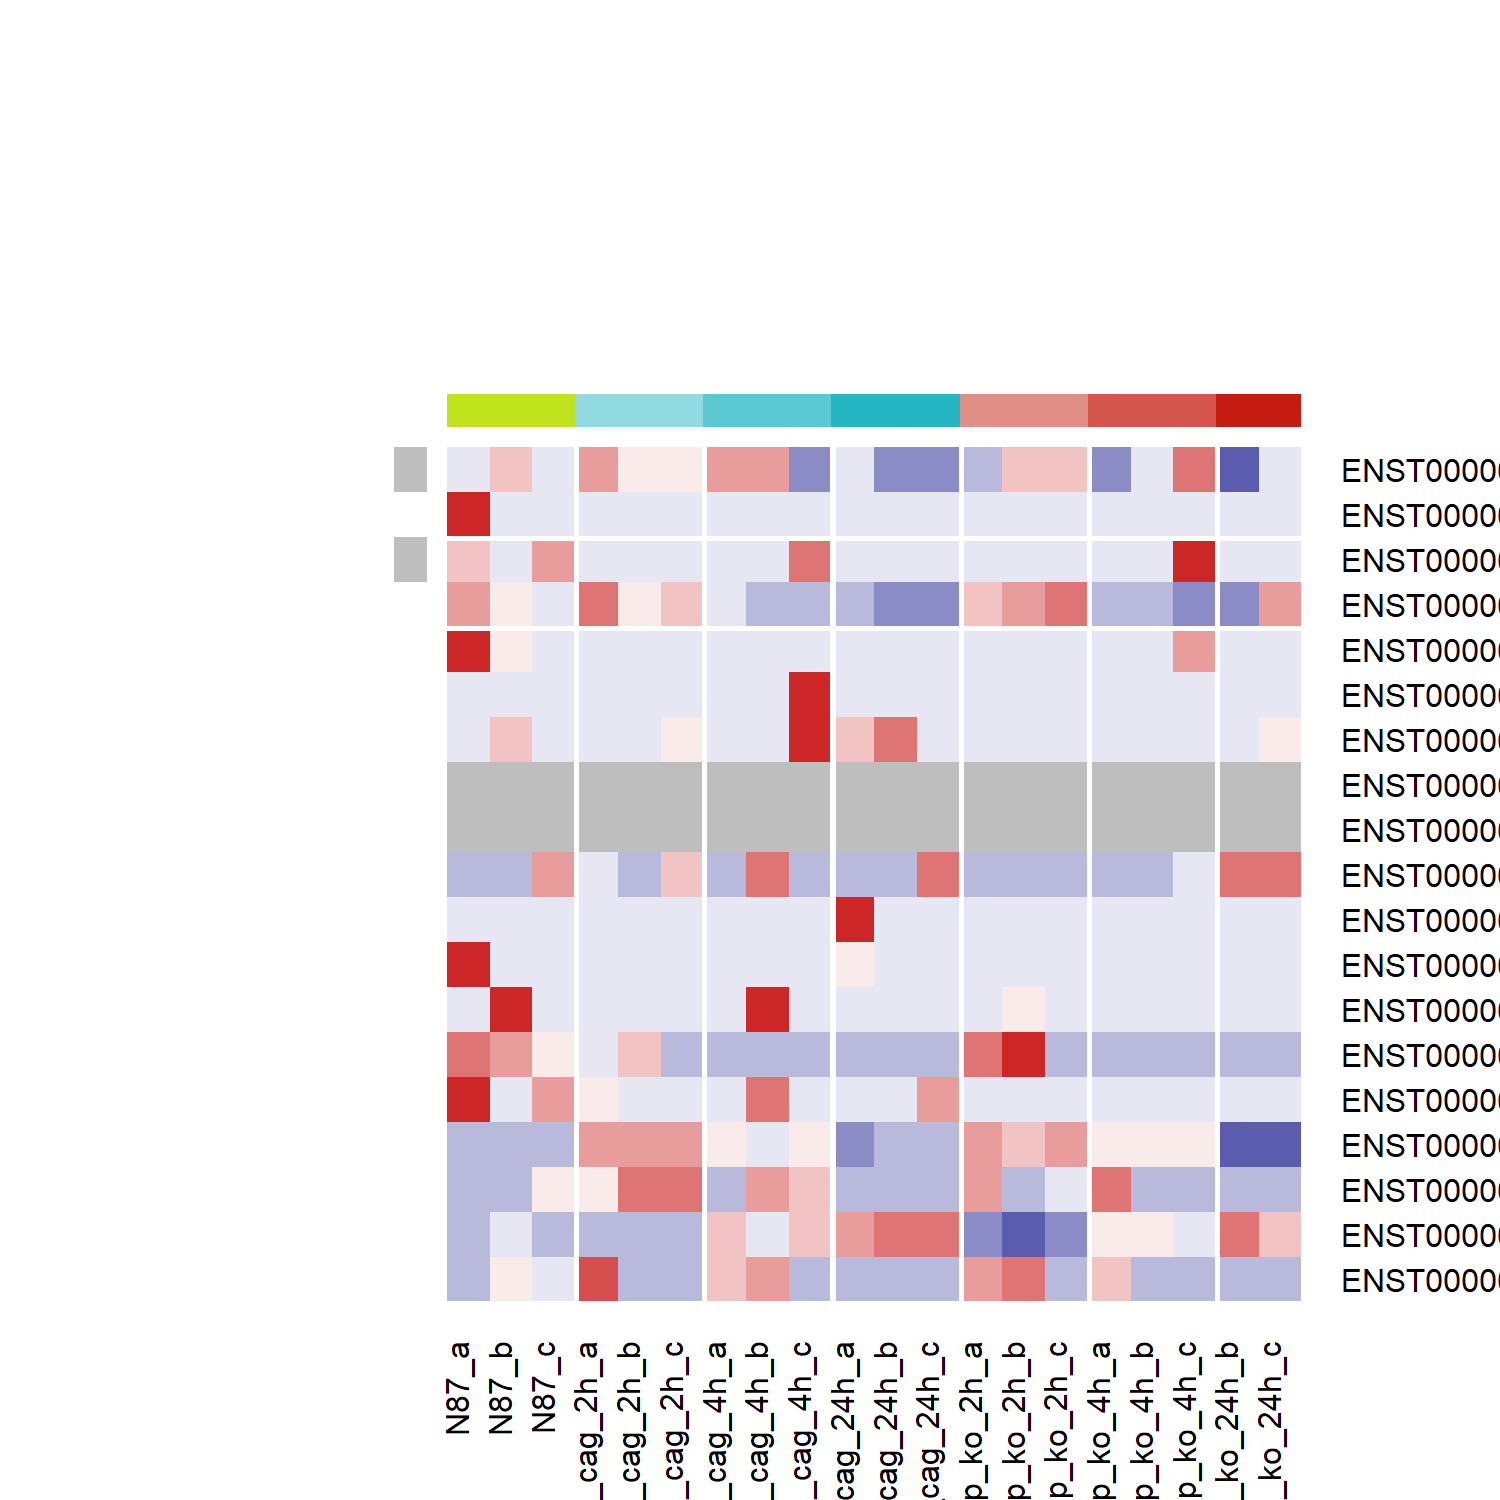
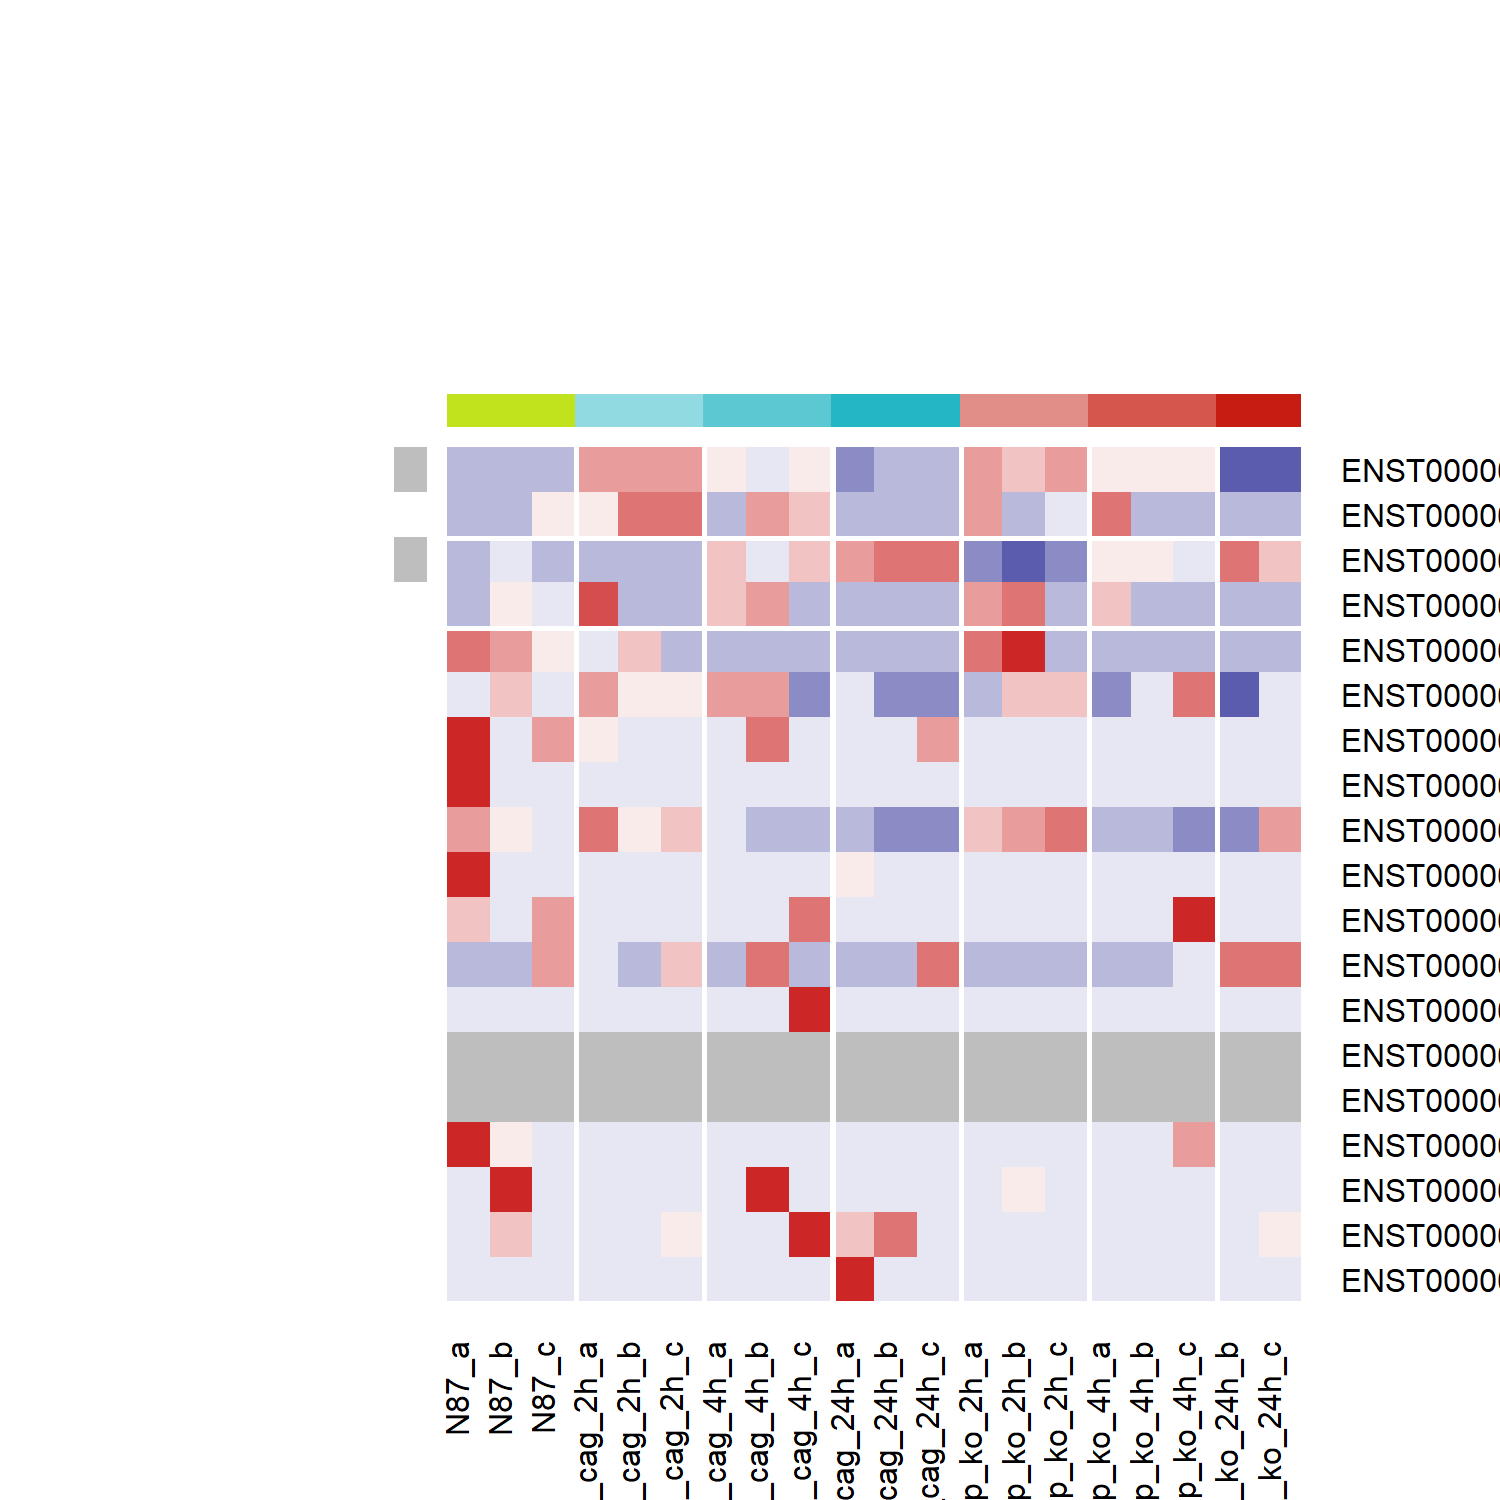
adds rank analysis for select genes

Changed region(s): [[0.276, 0.276, 0.8893, 0.8893]]

diff --git a/README_v2.md b/README_v2.md
@@ -3421,11 +3421,51 @@ genes <- as.data.frame(rbind(c("ENST00000307407.8","IL-8","protein_coding"),
                              c("ENST00000493758.5","ITGB1","protein_coding")
 ))
 ```
+##### Identifies average rank in expression of genes of interest
+
+The closer to 0, the more the gene is expressed.
+
+```{R}
+rank <- counts
+for(i in 1:ncol(rank)){
+  rank[,i] <- rank(-counts[,i])
+}
+
+avgrank <- rowMeans(rank)
+
+for(i in 1:nrow(genes)){
+  print(paste(genes[i,1],
+              round(avgrank[which(rownames(rank) == genes[i,1])]/max(avgrank)*100,2),
+              sep = "         "))
+}
+```
+
+```{R, eval = F}
+[1] "ENST00000307407.8         16.14"
+[1] "ENST00000401931.1         52.76"
+[1] "ENST00000293379.9         1.58"
+[1] "ENST00000547197.1         65.49"
+[1] "ENST00000396033.6         65.31"
+[1] "ENST00000302278.8         0.32"
+[1] "ENST00000423113.5         82.49"
+[1] "ENST00000488427.1         92.63"
+[1] "ENST00000474568.5         40.24"
+[1] "ENST00000472147.1         93.22"
+[1] "ENST00000480226.5         84.17"
+[1] "ENST00000417122.6         58.97"
+[1] "ENST00000534049.5         96.97"
+[1] "ENST00000475184.5         100"
+[1] "ENST00000528877.5         100"
+[1] "ENST00000488494.5         87.05"
+[1] "ENST00000414670.2         80.04"
+[1] "ENST00000437302.5         70.11"
+[1] "ENST00000493758.5         97.01"
+```
 
 ##### Use module assigments as the row color bar
 
 ```{R,fig.height = 5, fig.width = 5}
-tpm.selectgenes <- tpm[rownames(tpm) %in% genes[,1],]
+tpm.selectgenes <- tpm[match(genes[,1],rownames(tpm)),]
 log2tpm.selectgenes <- log2(tpm.selectgenes+1)
 zscore.log2tpm.selectgenes <- as.data.frame(t(scale(t(log2tpm.selectgenes))))
 
@@ -3575,7 +3615,7 @@ heatmap.2(as.matrix(zscore.log2tpm.selectgenes),
 		  dendrogram = "none")
 ```
 
-![image](/images/human_tpm_selectgenes_zscorelog2tpm_module_heatmap.png)
+![image](/images/human_tpm_selectgenes_zscorelog2tpm_invert_heatmap.png)
 
 ## Combine cyan F + darkred T and cyan T + darkred F module gene lists for WGCNA analyses due to their similar expression patterns
 
